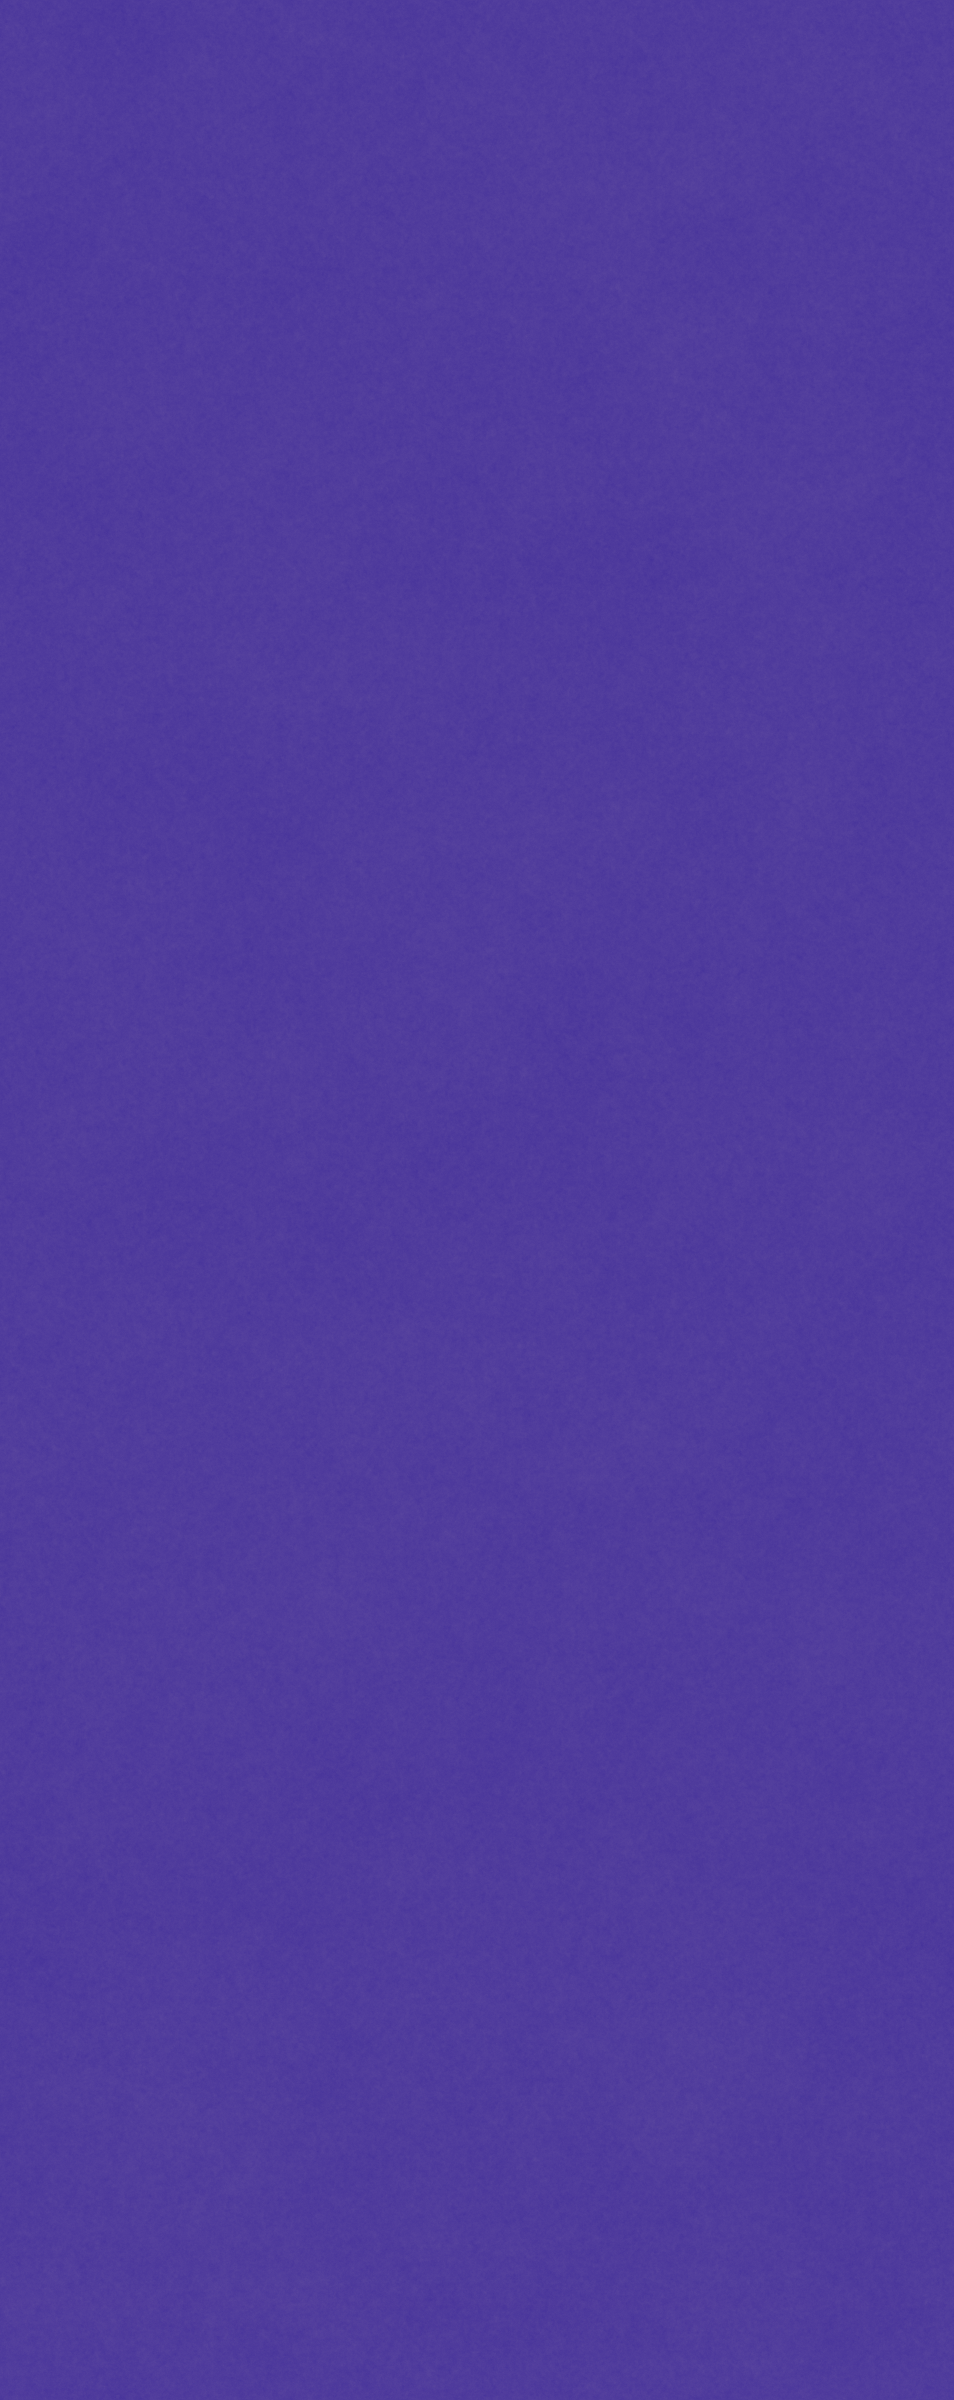
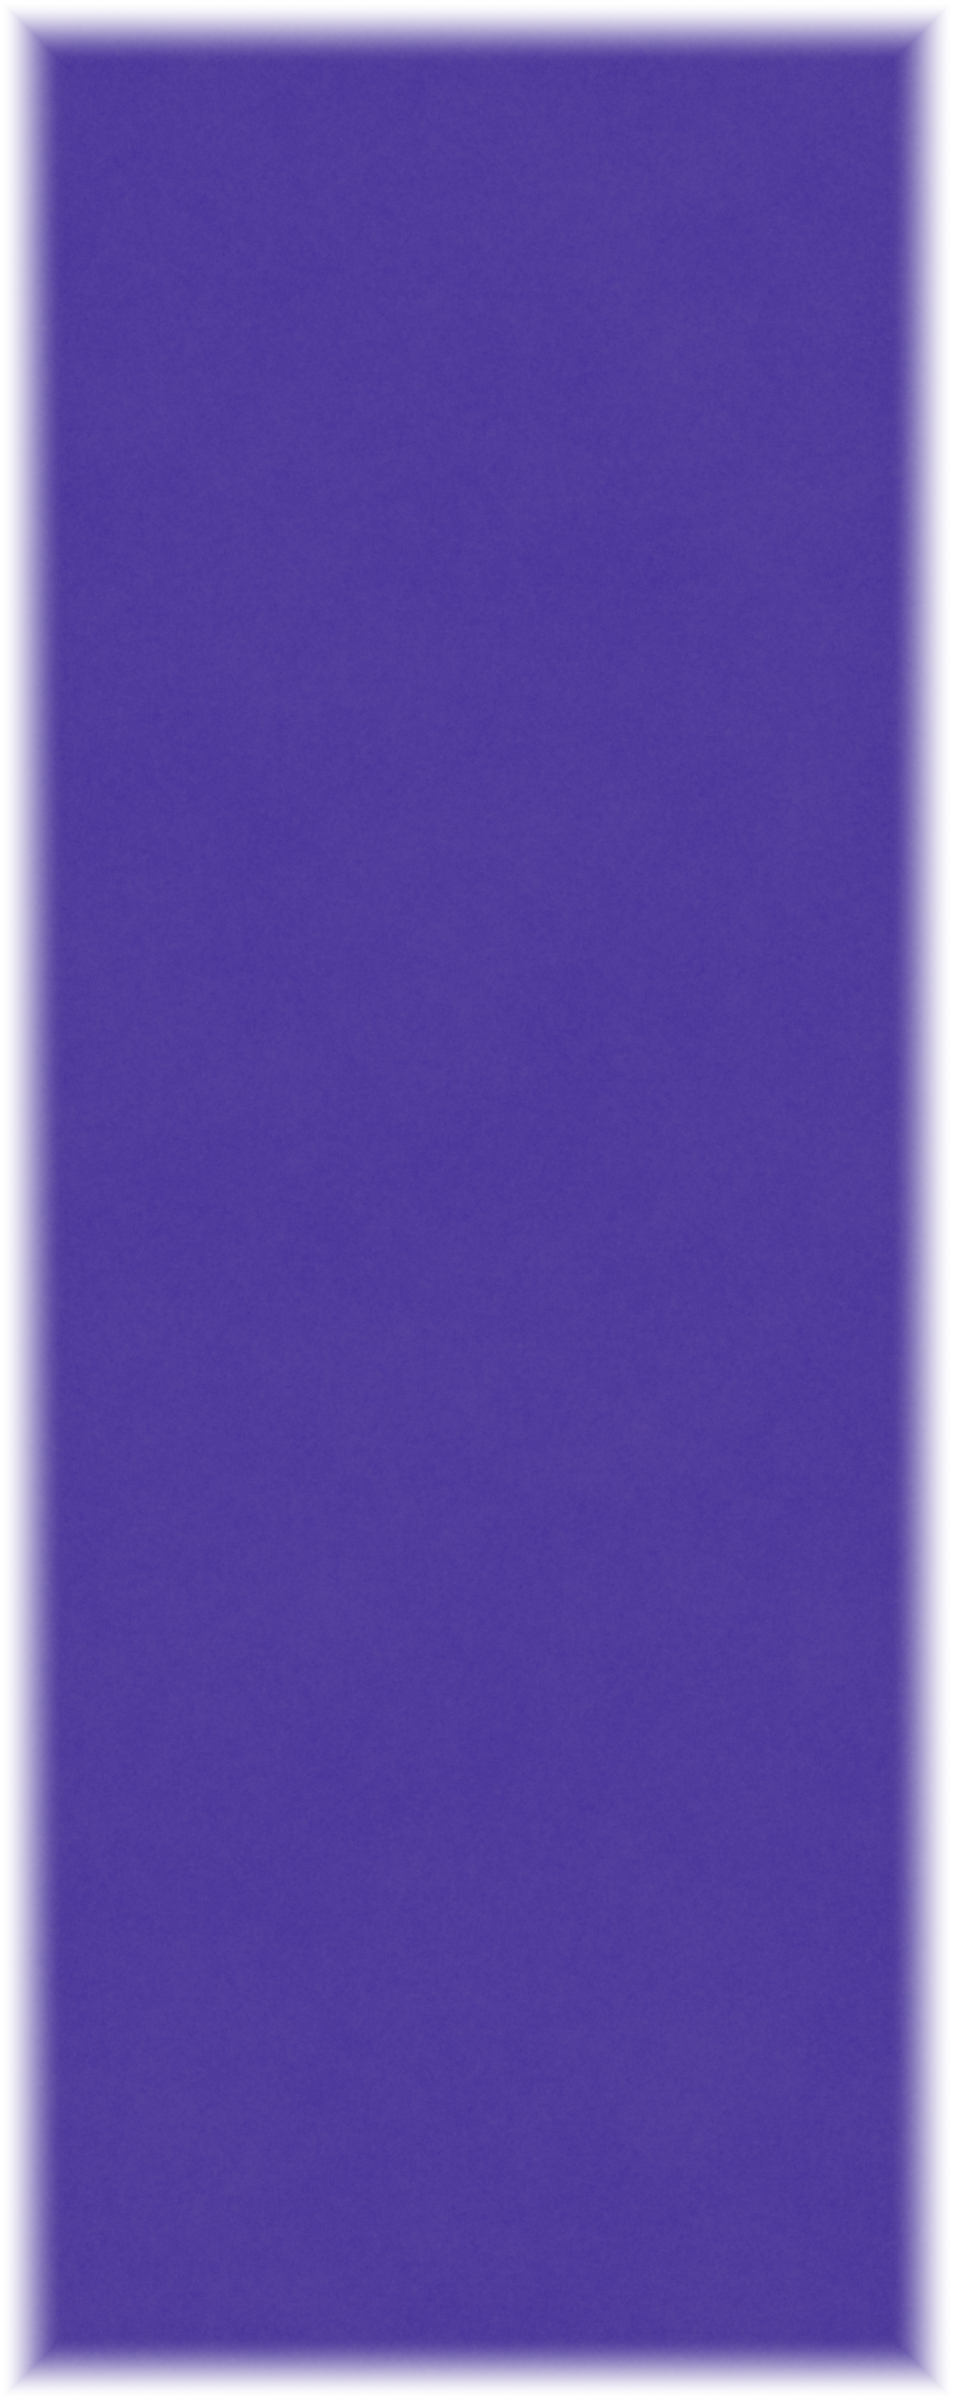
Give the level its own background, distinct from the camera fill
On wide or tall devices the play area and the surplus around it were the
same purple, so the level had no visible boundary. LevelBackground is now a
world-space sprite sized exactly to the play area (design width by the
level's vertical range) with a 64px feathered, 9-sliced edge that fades
smoothly into the camera's plain red clear colour behind it.

Untitled_Artwork.png (the flat purple) becomes ClassicBackground.png;
TallBackground is a single sprite with the same fade. The camera-child
Background/BackgroundFitter is removed.

Claude-Session: https://claude.ai/code/session_01P5t9P8H2ZvrbbqW2s52Cjz

Changed region(s): [[0.0, 0.0, 1.0, 1.0]]

diff --git a/Assets/Scripts/Level/LevelController.cs b/Assets/Scripts/Level/LevelController.cs
@@ -11,7 +11,7 @@ using UnityEngine;
 public class LevelController : MonoBehaviour
 {
     public Transform obstaclesRoot;
-    public SpriteRenderer background;
+    public LevelBackground background;
 
     [Header("Tall levels — leave empty in the Classic scene")]
     public StickController stick;
@@ -19,26 +19,32 @@ public class LevelController : MonoBehaviour
     public Transform pulleys;
     public Transform winningHole;
 
+    float floorY;
+    float ceilingY;
+    bool hasClimbRange;
+
     void Awake()
     {
-        ApplyBackground();
         ApplyLevelGeometry();
         SpawnObstacles();
     }
 
-    void ApplyBackground()
-    {
-        var config = GameManager.Instance != null ? GameManager.Instance.currentLevel : null;
-        if (config == null || config.backgroundSprite == null || background == null) return;
-
-        background.sprite = config.backgroundSprite;
-    }
-
     // Deferred to Start so the camera lands on a rig that has finished waking up,
-    // rather than gliding in from wherever the scene left it.
+    // rather than gliding in from wherever the scene left it — and so the
+    // background's own OnEnable fit can't run after ours and undo it.
     void Start()
     {
+        ApplyBackground();
         if (cameraFollow != null) cameraFollow.SnapToTarget();
+    }
+
+    void ApplyBackground()
+    {
+        if (background == null) return;
+
+        var config = GameManager.Instance != null ? GameManager.Instance.currentLevel : null;
+        if (config != null && config.backgroundSprite != null) background.SetSprite(config.backgroundSprite);
+        if (hasClimbRange) background.Fit(floorY, ceilingY);
     }
 
     // Stretches the scene's climb to the height this level asks for.
@@ -63,8 +69,11 @@ public class LevelController : MonoBehaviour
         if (pulleys != null) pulleys.position += new Vector3(0f, rise, 0f);
         if (winningHole != null) winningHole.position += new Vector3(0f, rise, 0f);
 
-        if (cameraFollow != null)
-            cameraFollow.ConfigureBounds(config.levelFloorY, spawnY + config.climbHeight + config.ceilingPadding);
+        floorY = config.levelFloorY;
+        ceilingY = spawnY + config.climbHeight + config.ceilingPadding;
+        hasClimbRange = true;
+
+        if (cameraFollow != null) cameraFollow.ConfigureBounds(floorY, ceilingY);
     }
 
     void SpawnObstacles()

diff --git a/Assets/Scripts/Level/LevelBackground.cs b/Assets/Scripts/Level/LevelBackground.cs
@@ -1,0 +1,57 @@
+using UnityEngine;
+
+// The art behind the play area — sized to exactly the level's box (the design
+// width by the level's vertical range) so on a wide or tall device it reads as
+// the level's boundary against the camera's plain clear colour. The sprite is
+// 9-sliced with a feathered alpha border, so the edge fades out smoothly at a
+// constant thickness no matter how tall the level is; the fade sits just
+// outside the play area rather than eating into it.
+//
+// Classic levels are one design-length screenful centred on this object;
+// LevelController stretches Tall levels to their climb range.
+[ExecuteAlways]
+[RequireComponent(typeof(SpriteRenderer))]
+public class LevelBackground : MonoBehaviour
+{
+    public ScreenFitProfile profile;
+
+    SpriteRenderer sr;
+
+    void OnEnable()
+    {
+        sr = GetComponent<SpriteRenderer>();
+        FitToDesignBox();
+    }
+
+    void OnValidate()
+    {
+        if (sr == null) sr = GetComponent<SpriteRenderer>();
+        FitToDesignBox();
+    }
+
+    public void SetSprite(Sprite sprite)
+    {
+        sr.sprite = sprite;
+        FitToDesignBox();
+    }
+
+    public void Fit(float bottomY, float topY)
+    {
+        if (sr == null || sr.sprite == null || profile == null) return;
+
+        float fade = sr.sprite.border.x / sr.sprite.pixelsPerUnit;
+        sr.drawMode = SpriteDrawMode.Sliced;
+        sr.size = new Vector2(profile.designWidth + 2f * fade, topY - bottomY + 2f * fade);
+
+        Vector3 pos = transform.position;
+        pos.y = (bottomY + topY) * 0.5f;
+        transform.position = pos;
+    }
+
+    void FitToDesignBox()
+    {
+        if (profile == null) return;
+        float half = profile.designLength * 0.5f;
+        Fit(transform.position.y - half, transform.position.y + half);
+    }
+}

diff --git a/Assets/Scripts/Core/CameraAspectFit.cs b/Assets/Scripts/Core/CameraAspectFit.cs
@@ -4,8 +4,8 @@ using UnityEngine;
 // vertical LENGTH constant whenever possible, and only falling back to
 // holding WIDTH constant when the device is narrower than the design allows
 // (so nothing horizontal is ever cropped). Whichever dimension isn't pinned
-// grows beyond the design size — that surplus space is expected to be filled
-// by world-space background art (see BackgroundFitter), not black bars.
+// grows beyond the design size — that surplus shows the camera's clear colour
+// around the level's own background (see LevelBackground), not black bars.
 //
 //  - Device aspect > profile designAspect (wide/square screens): FIT TO
 //    LENGTH — orthographicSize is pinned to profile.designLength / 2, so the

diff --git a/Assets/Scripts/UI/PinnedToView.cs b/Assets/Scripts/UI/PinnedToView.cs
@@ -3,9 +3,7 @@ using UnityEngine;
 // Pins this object to a fixed fraction of the camera's current view rather
 // than a fixed world position, so it doesn't drift when CameraAspectFit grows
 // the camera's orthographic size on a taller/narrower device to keep the
-// design's width on screen. BackgroundFitter always stretches the background
-// to exactly fill that same view, so mapping to a view fraction here is
-// equivalent to pinning to a fixed spot on the background art itself.
+// design's width on screen.
 //
 // (0.5, 0.5) is dead centre; (0.5, 0) is bottom-centre — same convention as a
 // UI anchor. Only X/Y move; Z (and sorting) stay whatever they were authored
